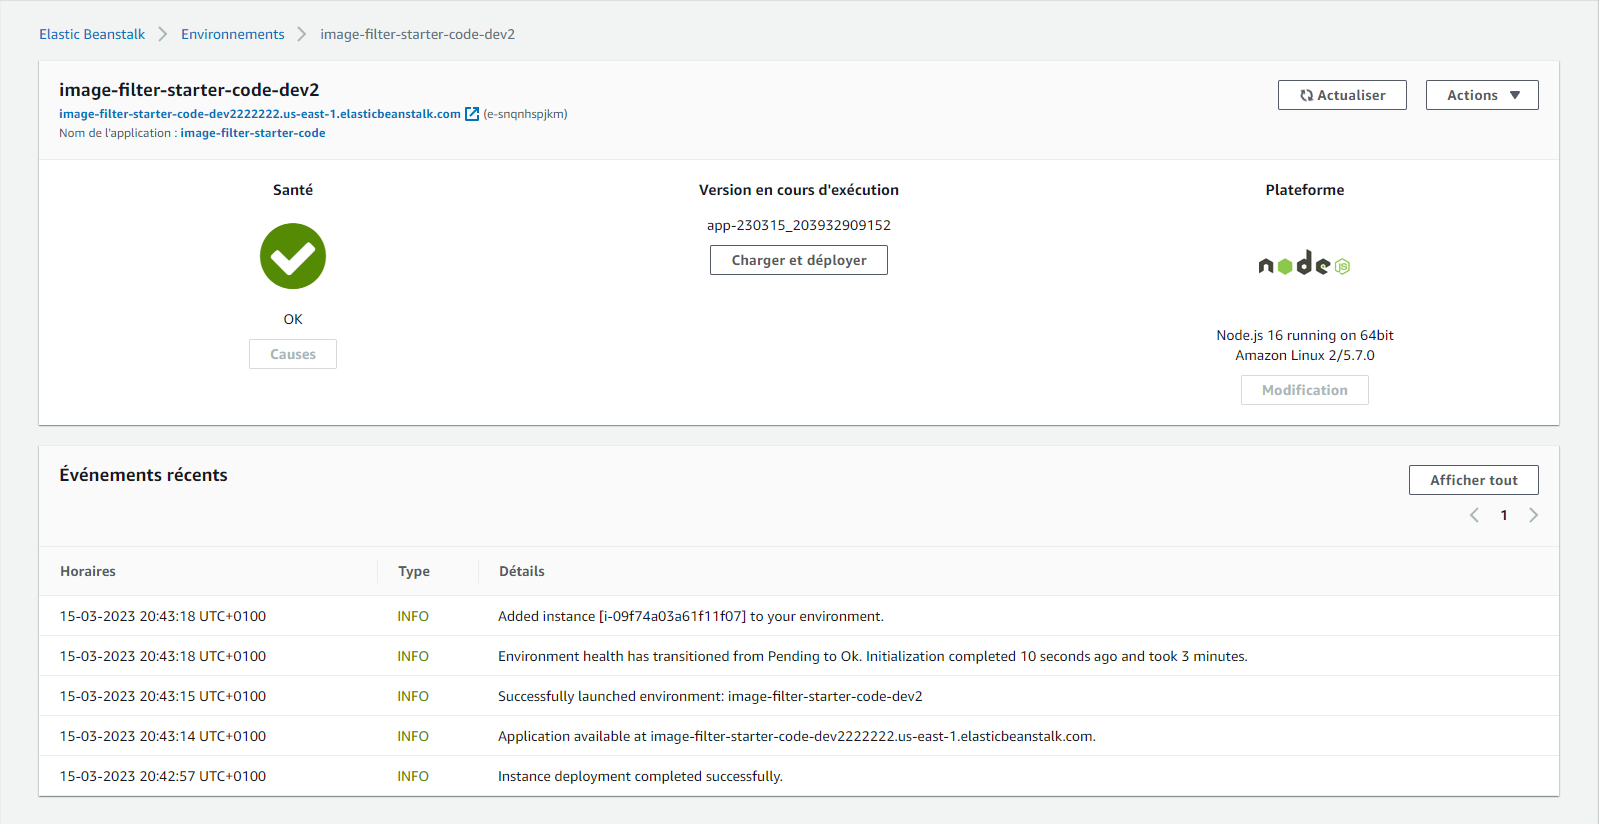
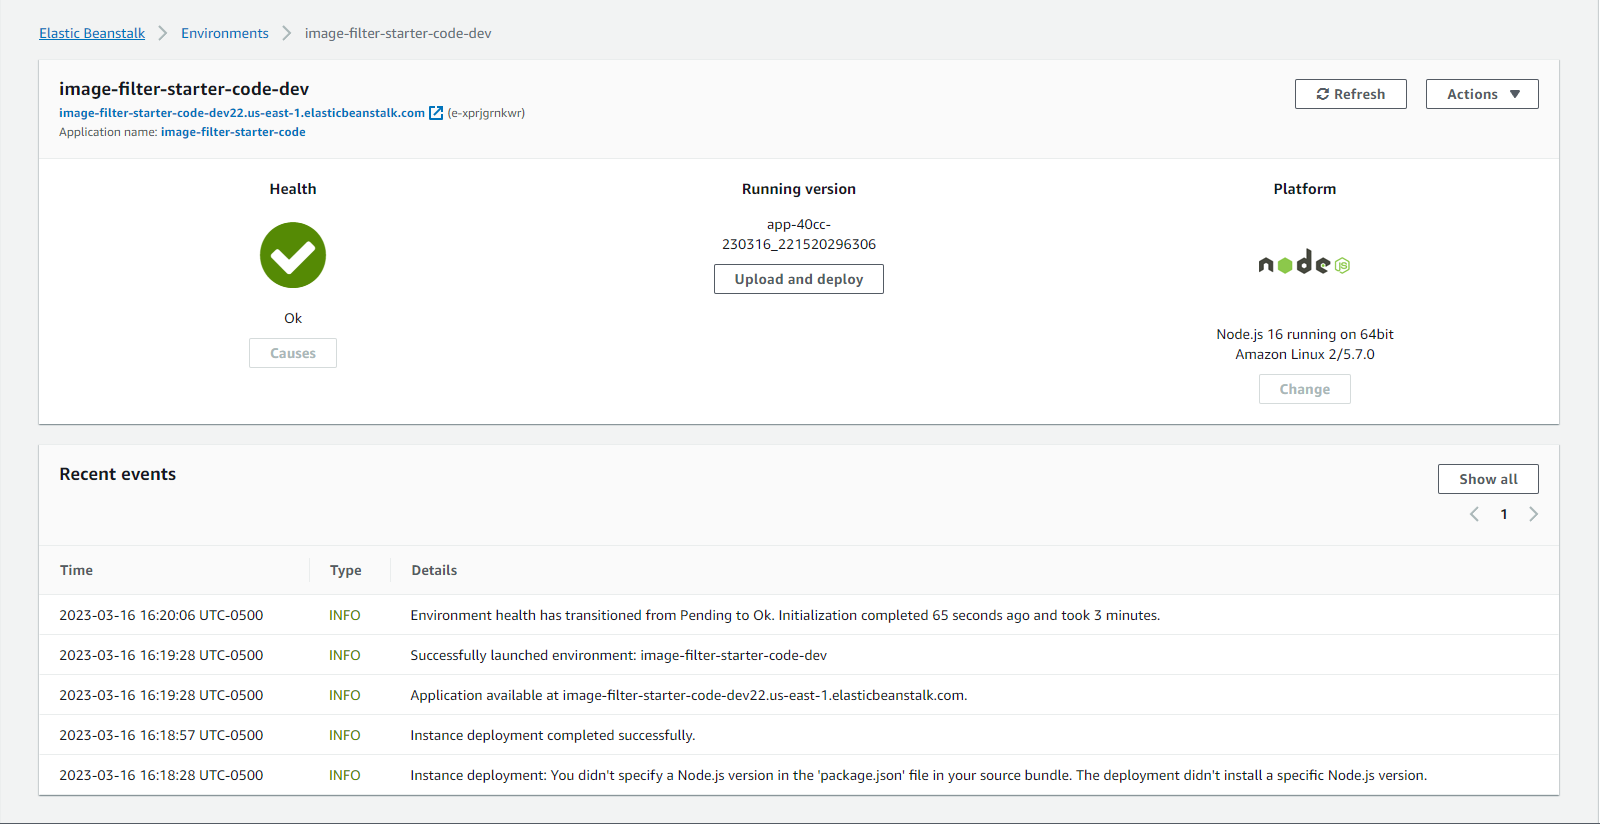
first coomit

diff --git a/src/server.ts b/src/server.ts
@@ -1,6 +1,7 @@
 import express from 'express';
 import bodyParser from 'body-parser';
 import {filterImageFromURL} from './util/util';
+import {Request, Response} from 'express';
 
 (async () => {
 
@@ -12,8 +13,7 @@ import {filterImageFromURL} from './util/util';
 
   // Use the body parser middleware for post requests
   app.use(bodyParser.json());
-  app.get("/filteredimage/", async (req, res) => {
-
+  
     // @TODO1 IMPLEMENT A RESTFUL ENDPOINT
   // GET /filteredimage?image_url={{URL}}
   // endpoint to filter an image from a public url.
@@ -33,6 +33,10 @@ import {filterImageFromURL} from './util/util';
   //! END @TODO1
  
   // Root Endpoint
+  app.get('/filteredimage', async (req: Request, res: Response) => {
+
+  const image_url : string = req.query.image_url;
+
   try {
     let {image_url} = req.query;
     
@@ -41,7 +45,7 @@ import {filterImageFromURL} from './util/util';
     }
     console.log(image_url);
     
-    const path = await filterImageFromURL(image_url);
+    const path : any = await filterImageFromURL(image_url);
     
     res.status(200).sendFile(path);
     res.sendFile(path);  
@@ -52,12 +56,13 @@ import {filterImageFromURL} from './util/util';
 }
   
 });
+
   // Displays a simple message to the user
-  app.get( "/", async (req, res) => {
+  app.get( "/", async (req: Request, res: Response) => {
     res.send("try GET /filteredimage?image_url={{}}")
   } );
  
- 
+
   // Start the Server
   app.listen( port, () => {
       console.log( `server running http://localhost:${ port }` );

diff --git a/README.md b/README.md
@@ -50,6 +50,6 @@ Add your own domain name and have it point to the running services (try adding a
 
 ### Project Links
 
-Endpoint URL to the Elastic Beanstalk deployment: <http://image-filter-starter-code-dev2222222.us-east-1.elasticbeanstalk.com/>
+Endpoint URL to the Elastic Beanstalk deployment: <http://image-filter-starter-code-dev22.us-east-1.elasticbeanstalk.com/>
 
-Git Repository: <http://>
+Git Repository: <https://github.com/Nikita0000000/project-udagram-your-own-instagram-on-aws.git>
